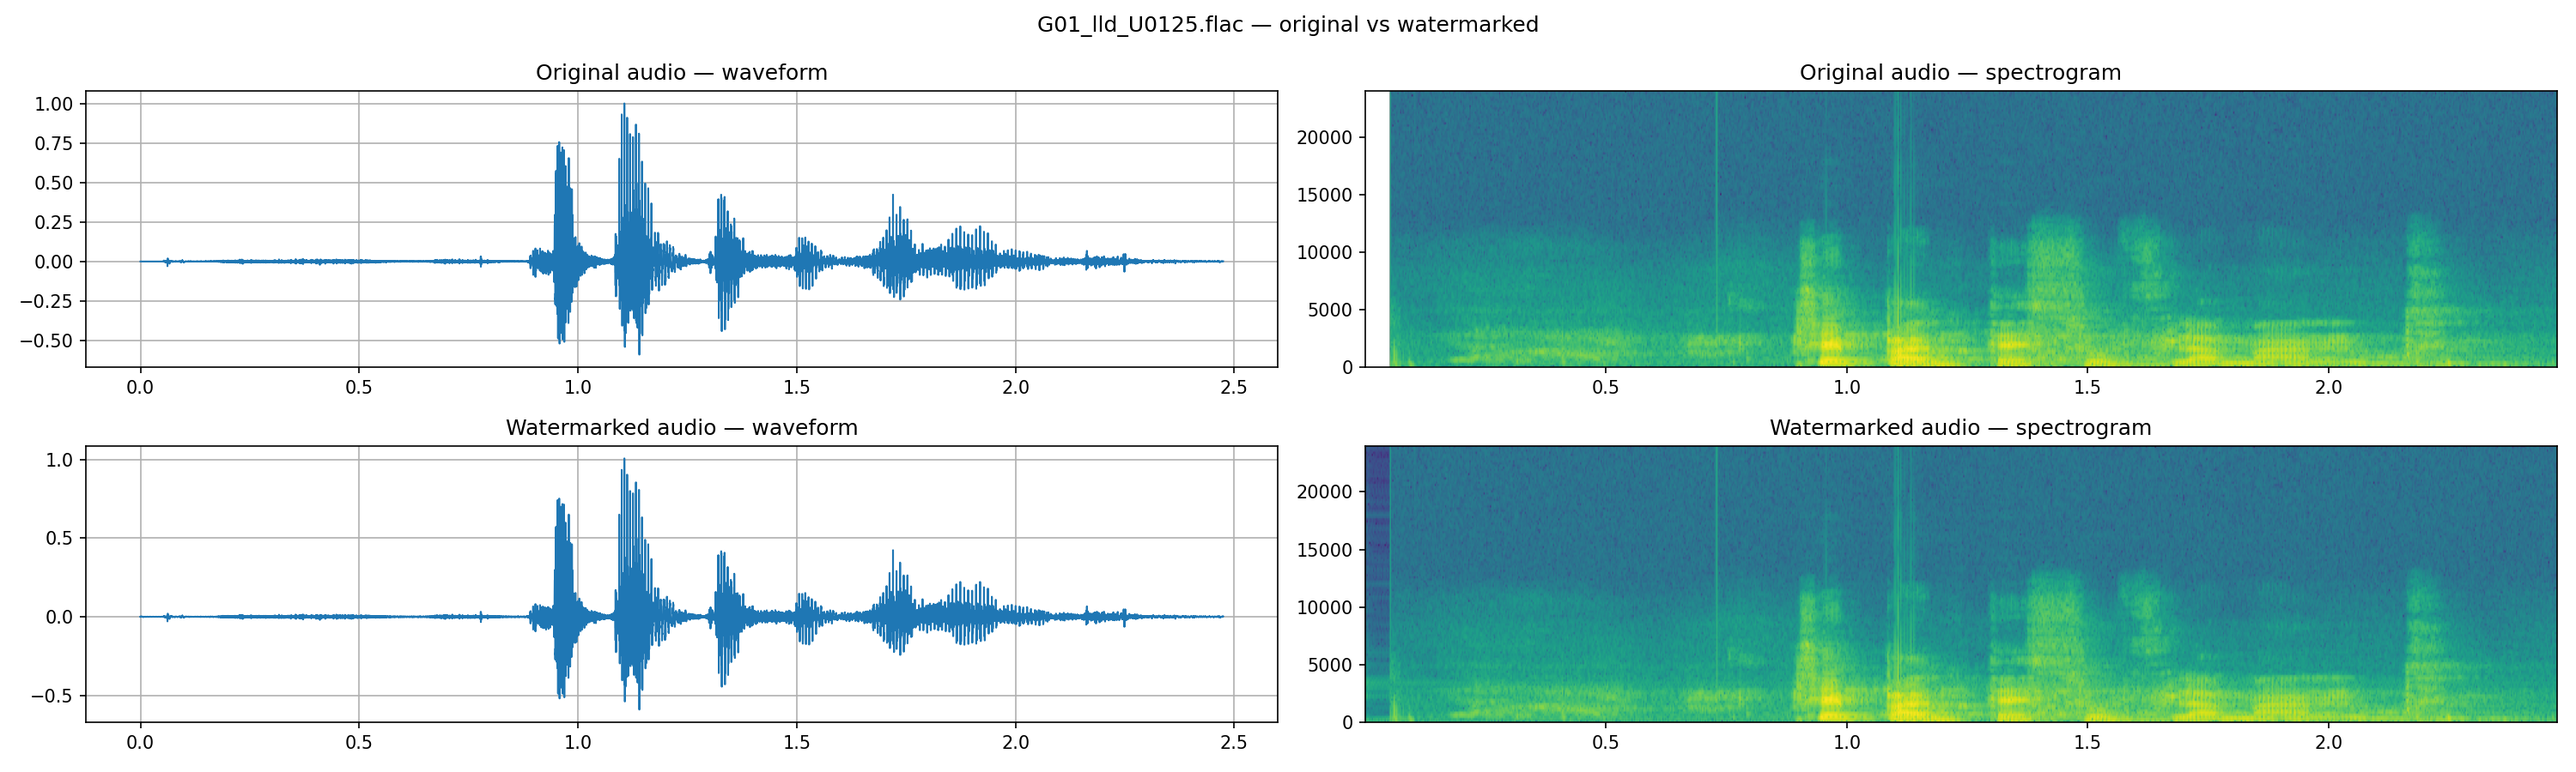
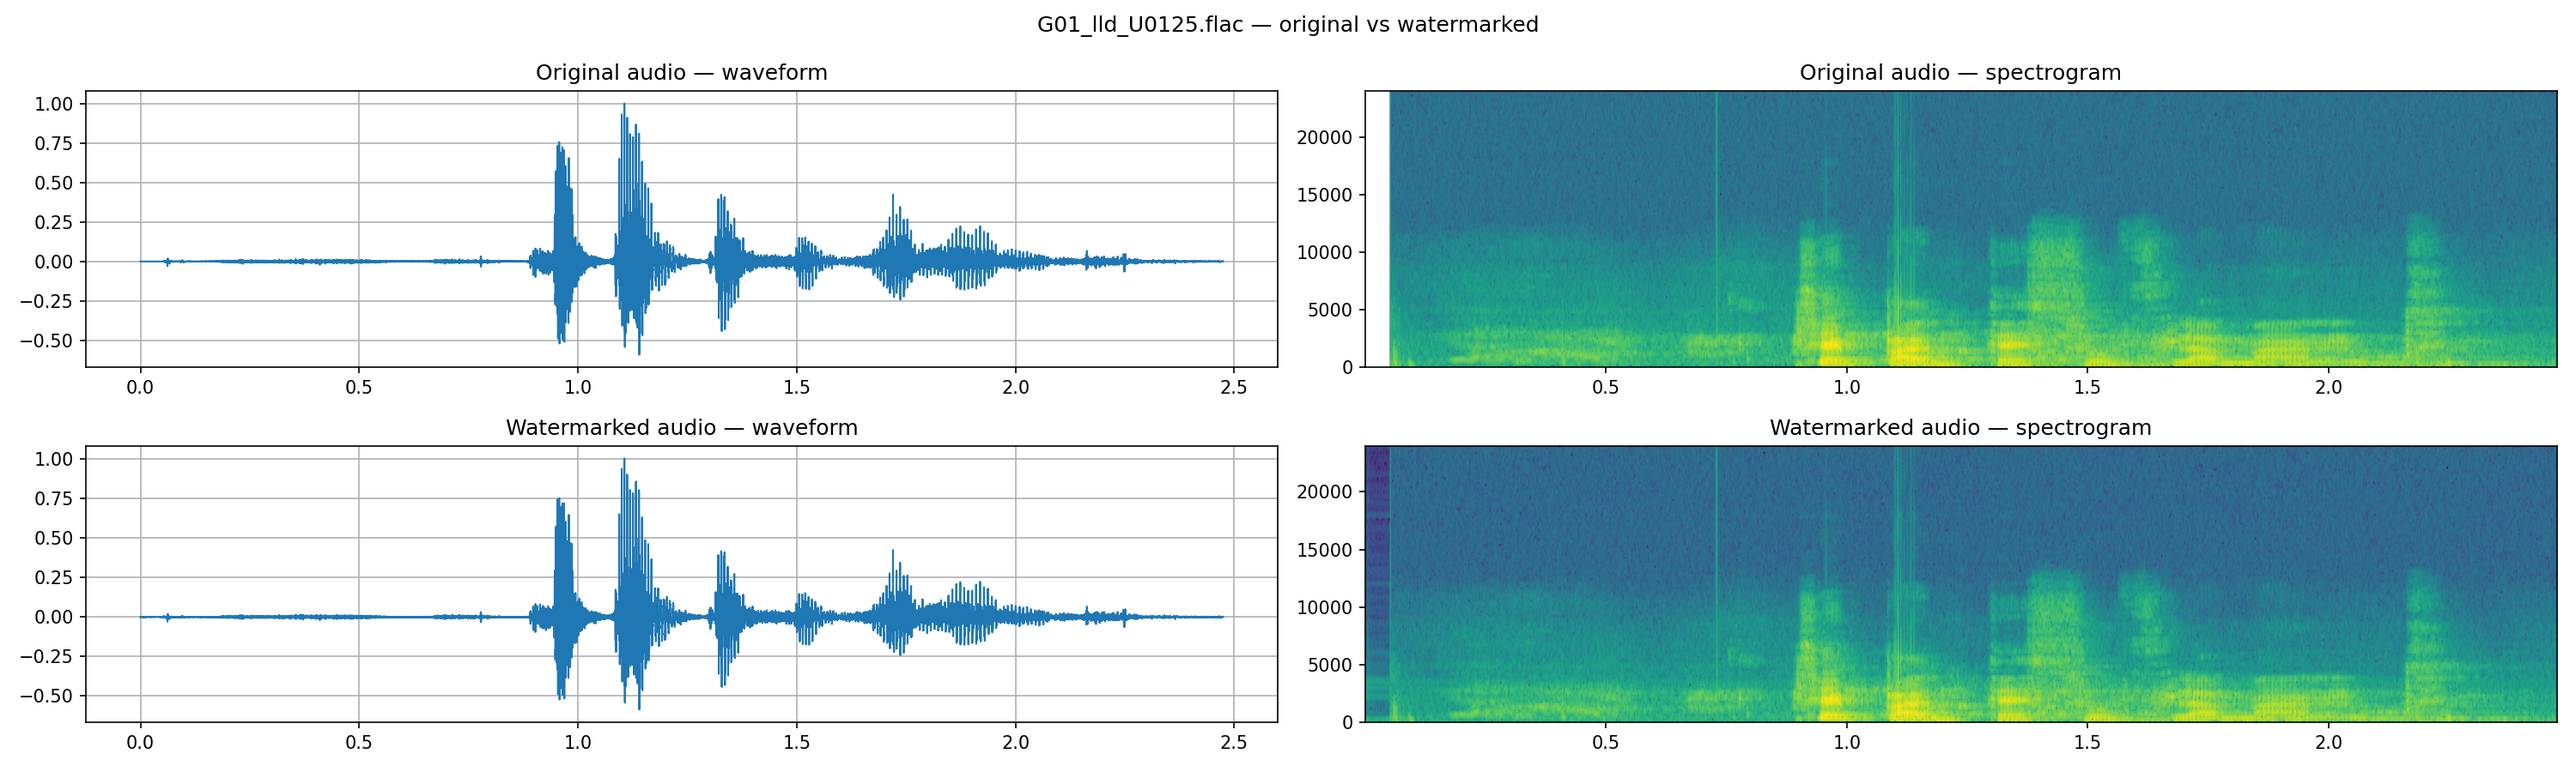
Added function to save watermarked audio in wav format

Changed region(s): [[0.0, 0.84, 0.031, 0.8711], [0.0, 0.7778, 0.031, 0.8089], [0.0, 0.6844, 0.031, 0.7156]]

diff --git a/main.py b/main.py
@@ -48,7 +48,6 @@ def load_audio(file_path: str) -> tuple[torch.Tensor, int]:
             os.unlink(tmp_path)
     return _load_from_wav_file(file_path)
 
-
 def _to_mono_numpy(waveform: torch.Tensor) -> np.ndarray:
     """Match notebook expectations: 1D signal for waveform and specgram."""
     x = waveform.squeeze().detach().cpu().numpy()
@@ -102,6 +101,22 @@ def save_original_vs_watermarked_plot(
     plt.close(figure)
 
 
+def save_watermarked_wav(
+    watermarked_audio: torch.Tensor,
+    sample_rate: int,
+    out_path: str,
+) -> None:
+    """Write watermarked audio as WAV (float32). Expects shape (batch, channels, samples)."""
+    if watermarked_audio.dim() != 3:
+        raise ValueError(
+            f"Expected watermarked tensor rank 3 (batch, channels, samples); got {watermarked_audio.dim()}"
+        )
+    # (channels, samples) -> (samples, channels) for soundfile
+    data = watermarked_audio[0].detach().cpu().numpy().T.astype(np.float32, copy=False)
+    os.makedirs(os.path.dirname(os.path.abspath(out_path)), exist_ok=True)
+    sf.write(out_path, data, sample_rate, format="WAV", subtype="FLOAT")
+
+
 def _parse_args() -> argparse.Namespace:
     parser = argparse.ArgumentParser(
         description=(
@@ -136,6 +151,12 @@ def _parse_args() -> argparse.Namespace:
         help="Resolution of saved PNG figures (default: 150).",
     )
     parser.add_argument(
+        "--output-watermarked",
+        default=None,
+        metavar="DIR",
+        help="Directory for watermarked WAV files (default: <input>/watermarked_wav).",
+    )
+    parser.add_argument(
         "--generator",
         default="audioseal_wm_16bits",
         metavar="NAME",
@@ -163,6 +184,11 @@ if __name__ == "__main__":
         )
         os.makedirs(plot_dir, exist_ok=True)
 
+    watermarked_wav_dir = os.path.abspath(
+        args.output_watermarked or os.path.join(audio_folder, "watermarked_wav")
+    )
+    os.makedirs(watermarked_wav_dir, exist_ok=True)
+
     model = AudioSeal.load_generator(args.generator)
     model.eval()
     detector = AudioSeal.load_detector(args.detector)
@@ -180,11 +206,24 @@ if __name__ == "__main__":
         watermark = model.get_watermark(wav)
         watermarked_audio = wav + watermark
 
-        result, message = detector.detect_watermark(watermarked_audio)
-        print(f"Audio: {audio_file}, Result: {result}, Message: {message}")
+        stem, _ = os.path.splitext(audio_file)
+        wav_out_path = os.path.join(watermarked_wav_dir, f"{stem}_watermarked.wav")
+        save_watermarked_wav(watermarked_audio, sample_rate, wav_out_path)
+        print(f"  Saved watermarked WAV: {wav_out_path}")
 
+        # To detect the messages in the high-level.
+        result, message = detector.detect_watermark(watermarked_audio)
+        print(f"Detect messages in the high-level: Audio: {audio_file}, Result: {result}, Message: {message}")
+
+        # To detect the messages in the low-level.
+        result, message = detector(watermarked_audio)
+
+        # result is a tensor of size batch x 2 x frames, indicating the probability (positive and negative) of watermarking for each frame
+        # A watermarked audio should have result[:, 1, :] > 0.5
+        print(f"Detect messages in the low-level: Audio: {audio_file}, Result: {result[:, 1 , :]}, Message: {message}")  
+
+        # Generate plots
         if plot_dir is not None:
-            stem, _ = os.path.splitext(audio_file)
             plot_path = os.path.join(plot_dir, f"{stem}_original_vs_watermarked.png")
             save_original_vs_watermarked_plot(
                 wav,
